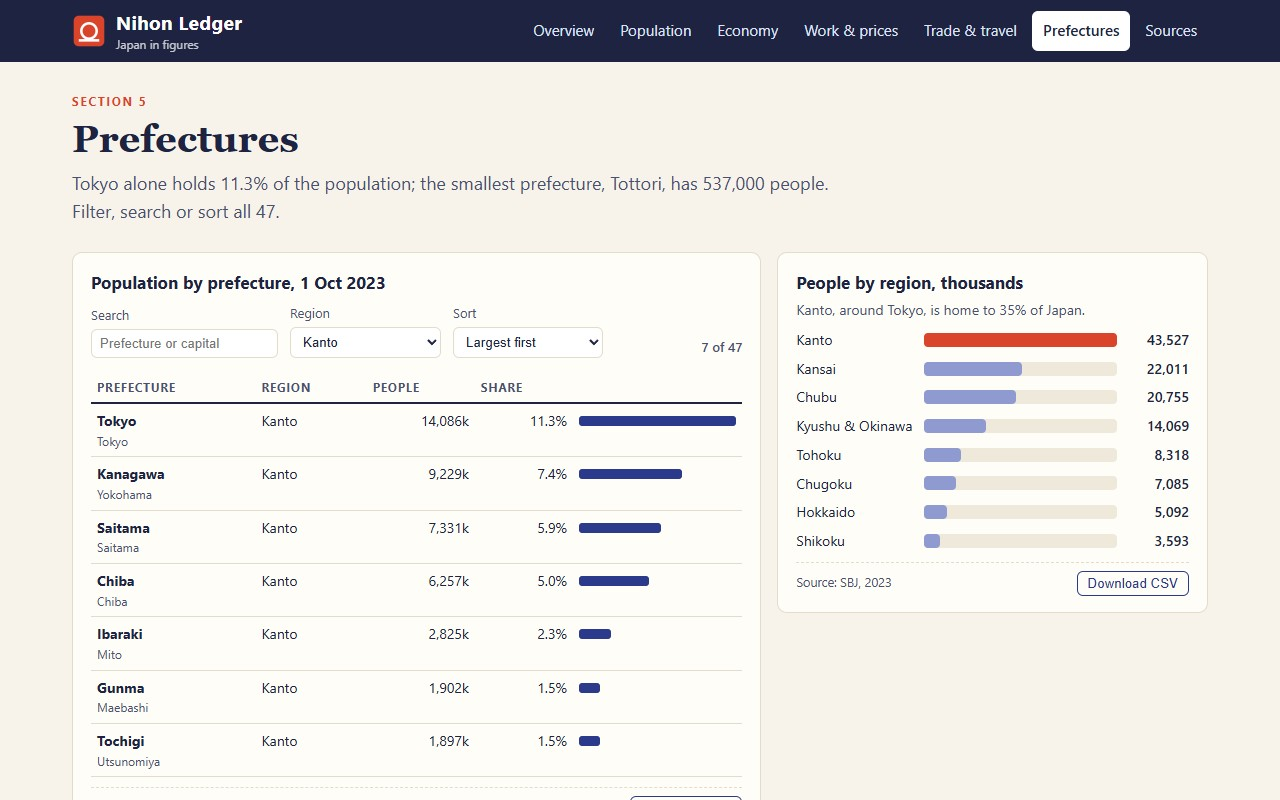
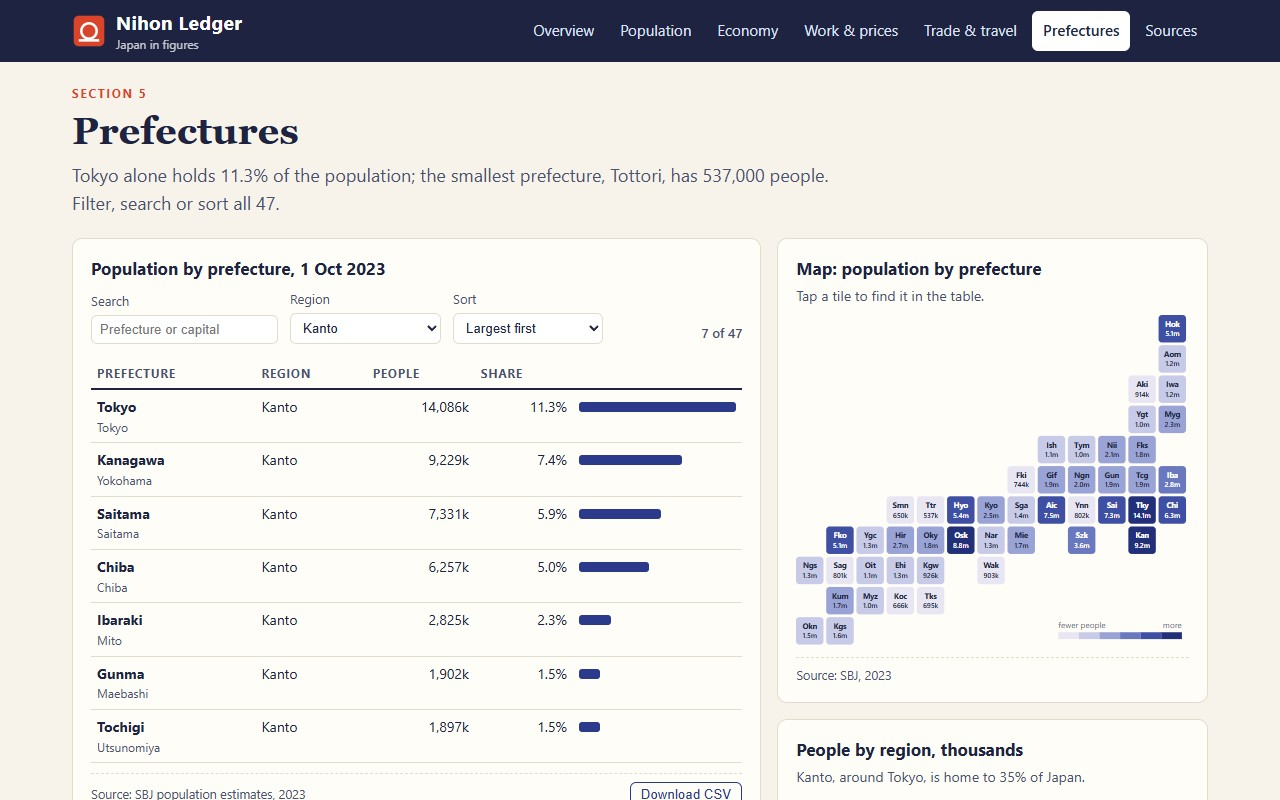
Prefecture tile map on the overview and prefectures pages: tap a tile to filter the table; releases card

diff --git a/app/js/charts/tile-map.js b/app/js/charts/tile-map.js
@@ -1,0 +1,57 @@
+// Tile map of Japan: one square per prefecture, laid out roughly where it sits,
+// shaded by population on a log scale. Tiles carry data-pref so a click can filter the table.
+
+const TILES = {
+  Hokkaido: [12, 0], Aomori: [12, 1], Akita: [11, 2], Iwate: [12, 2], Yamagata: [11, 3], Miyagi: [12, 3],
+  Ishikawa: [8, 4], Toyama: [9, 4], Niigata: [10, 4], Fukushima: [11, 4],
+  Fukui: [7, 5], Gifu: [8, 5], Nagano: [9, 5], Gunma: [10, 5], Tochigi: [11, 5], Ibaraki: [12, 5],
+  Shimane: [3, 6], Tottori: [4, 6], Hyogo: [5, 6], Kyoto: [6, 6], Shiga: [7, 6], Aichi: [8, 6], Yamanashi: [9, 6], Saitama: [10, 6], Tokyo: [11, 6], Chiba: [12, 6],
+  Fukuoka: [1, 7], Yamaguchi: [2, 7], Hiroshima: [3, 7], Okayama: [4, 7], Osaka: [5, 7], Nara: [6, 7], Mie: [7, 7], Shizuoka: [9, 7], Kanagawa: [11, 7],
+  Nagasaki: [0, 8], Saga: [1, 8], Oita: [2, 8], Ehime: [3, 8], Kagawa: [4, 8], Wakayama: [6, 8],
+  Kumamoto: [1, 9], Miyazaki: [2, 9], Kochi: [3, 9], Tokushima: [4, 9],
+  Okinawa: [0, 10], Kagoshima: [1, 10],
+};
+
+// Short labels that keep look-alike names apart (three Yama-, three Fuku-, two Miya-…).
+const ABBR = {
+  Fukushima: 'Fks', Fukui: 'Fki', Fukuoka: 'Fko', Yamagata: 'Ygt', Yamanashi: 'Ynn', Yamaguchi: 'Ygc',
+  Shimane: 'Smn', Shiga: 'Sga', Shizuoka: 'Szk', Saga: 'Sag', Nagasaki: 'Ngs', Nagano: 'Ngn',
+  Miyagi: 'Myg', Miyazaki: 'Myz', Kagawa: 'Kgw', Kagoshima: 'Kgs', Tokyo: 'Tky', Tokushima: 'Tks',
+  Tochigi: 'Tcg', Toyama: 'Tym', Tottori: 'Ttr', Okayama: 'Oky', Okinawa: 'Okn', Osaka: 'Osk',
+};
+
+const STEPS =['#e9e6f3', '#c7cbe8', '#9aa3d6', '#6a78c0', '#3f4fa3', '#22307a'];
+
+function shade(pop, min, max) {
+  const t = (Math.log(pop) - Math.log(min)) / (Math.log(max) - Math.log(min));
+  return STEPS[Math.min(STEPS.length - 1, Math.floor(t * STEPS.length))];
+}
+
+export function tileMap({ prefectures, selected = '', label = 'Map of prefectures' }) {
+  const size = 40;
+  const gap = 4;
+  const pops = prefectures.map((p) => p.pop);
+  const min = Math.min(...pops);
+  const max = Math.max(...pops);
+  const tiles = prefectures
+    .map((p) => {
+      const [c, r] = TILES[p.name];
+      const x = c * (size + gap);
+      const y = r * (size + gap);
+      const fill = shade(p.pop, min, max);
+      const dark = STEPS.indexOf(fill) >= 3;
+      return `<g class="tile${p.name === selected ? ' sel' : ''}" data-pref="${p.name}" tabindex="0" role="button" aria-label="${p.name}">
+        <rect x="${x}" y="${y}" width="${size}" height="${size}" rx="5" fill="${fill}"/>
+        <text x="${x + size / 2}" y="${y + 17}" class="${dark ? 'on-dark' : ''}">${ABBR[p.name] ?? p.name.slice(0, 3)}</text>
+        <text x="${x + size / 2}" y="${y + 31}" class="n ${dark ? 'on-dark' : ''}">${p.pop >= 1000 ? (p.pop / 1000).toFixed(1) + 'm' : p.pop + 'k'}</text>
+        <title>${p.name}: ${p.pop.toLocaleString('en-GB')} thousand</title></g>`;
+    })
+    .join('');
+  const w = 13 * (size + gap);
+  const h = 11 * (size + gap);
+  const legend = STEPS.map((c, i) => `<rect x="${i * 30}" y="${h - 22}" width="30" height="10" fill="${c}"/>`).join('');
+  return `<svg class="chart tilemap" viewBox="0 0 ${w} ${h}" role="img" aria-label="${label}">
+    ${tiles}
+    <g transform="translate(${w - 190},0)">${legend}<text class="axis" x="0" y="${h - 28}">fewer people</text><text class="axis" x="180" y="${h - 28}" text-anchor="end">more</text></g>
+  </svg>`;
+}

diff --git a/app/js/pages/overview.js b/app/js/pages/overview.js
@@ -6,6 +6,8 @@ import { POPULATION_MILLIONS, BIRTHS_THOUSANDS, FERTILITY_RATE, AGE_SHARES_2023 
 import { REAL_GDP_GROWTH, UNEMPLOYMENT_RATE, CPI_INFLATION } from '../data/economy.js';
 import { VISITORS_MILLIONS } from '../data/trade-travel.js';
 import { change, num } from '../format.js';
+import { tileMap } from '../charts/tile-map.js';
+import { PREFECTURES } from '../data/prefectures.js';
 
 const last = (s) => s[s.length - 1];
 
@@ -34,6 +36,15 @@ export function renderOverview() {
   </section>
   <div class="grid two">
     ${figure({
+      id: 'ov-map',
+      title: 'Where people live, 47 prefectures',
+      takeaway: 'Darker means more people. Tap a prefecture to open it in the table.',
+      chart: tileMap({ prefectures: PREFECTURES, label: 'Population by prefecture' }),
+      source: 'sbj',
+      year: 2023,
+      csv: { header: ['prefecture', 'population_thousands'], rows: PREFECTURES.map((p) => [p.name, p.pop]) },
+    })}
+    ${figure({
       id: 'ov-pop',
       title: 'Population, 2000 to 2024',
       takeaway: 'Peaked at 128.08 million in 2008; 4.3 million fewer people since.',
@@ -42,6 +53,8 @@ export function renderOverview() {
       year: 2024,
       csv: { header: ['year', 'population_millions'], rows: POPULATION_MILLIONS },
     })}
+  </div>
+  <div class="grid two">
     <aside class="card guide">
       <h3>Find your figure</h3>
       <ul>
@@ -53,6 +66,16 @@ export function renderOverview() {
         <li><a href="#/sources">Who publishes each number, and how</a></li>
       </ul>
       <p class="small">Every chart has a CSV download with the exact numbers shown.</p>
+    </aside>
+    <aside class="card guide">
+      <h3>Latest releases used</h3>
+      <ul>
+        <li>Population estimates, 1 October 2024 · SBJ</li>
+        <li>Vital statistics, 2024 preliminary · MHLW</li>
+        <li>National accounts, calendar 2024 · Cabinet Office</li>
+        <li>Labour Force Survey and CPI, 2024 averages · SBJ</li>
+        <li>Trade statistics 2024 · MOF; visitor arrivals 2024 · JNTO</li>
+      </ul>
     </aside>
   </div>`;
 }

diff --git a/app/js/pages/prefectures.js b/app/js/pages/prefectures.js
@@ -2,6 +2,7 @@
 
 import { figure } from '../ui/figure.js';
 import { rankBars } from '../charts/bar-charts.js';
+import { tileMap } from '../charts/tile-map.js';
 import { PREFECTURES, REGIONS, regionTotals } from '../data/prefectures.js';
 import { num, escapeHtml } from '../format.js';
 
@@ -52,6 +53,15 @@ export function renderPrefectures(state) {
       <tbody id="pref-rows">${prefectureRows(state)}</tbody></table></div>
       <figcaption><span class="src">Source: SBJ population estimates, 2023</span><button class="ghost" data-csv="prefs">Download CSV</button></figcaption>
     </figure>
+    <div class="stack">
+    ${figure({
+      id: 'pref-map',
+      title: 'Map: population by prefecture',
+      takeaway: state.prefQuery ? `Showing ${escapeHtml(state.prefQuery)} in the table. Tap another tile to switch.` : 'Tap a tile to find it in the table.',
+      chart: tileMap({ prefectures: PREFECTURES, selected: PREFECTURES.find((p) => p.name.toLowerCase() === state.prefQuery.trim().toLowerCase())?.name, label: 'Prefecture map' }),
+      source: 'sbj',
+      year: 2023,
+    })}
     ${figure({
       id: 'regions',
       title: 'People by region, thousands',
@@ -61,6 +71,7 @@ export function renderPrefectures(state) {
       year: 2023,
       csv: { header: ['region', 'population_thousands'], rows: regions.map((r) => [r.label, r.value]) },
     })}
+    </div>
   </div>`;
 }
 

diff --git a/app/css/charts.css b/app/css/charts.css
@@ -17,6 +17,13 @@
 .legend i.exp { background: #2c3a8c; margin-left: 0; }
 .legend i.imp { background: #e08a6f; }
 
+.tilemap .tile { cursor: pointer; }
+.tilemap .tile text { font-size: 11px; font-weight: 700; fill: #1d2340; text-anchor: middle; pointer-events: none; }
+.tilemap .tile text.n { font-size: 10px; font-weight: 500; }
+.tilemap .tile text.on-dark { fill: #fff; }
+.tilemap .tile:hover rect, .tilemap .tile:focus rect { stroke: #c9962b; stroke-width: 2.5; }
+.tilemap .tile.sel rect { stroke: #d9442b; stroke-width: 3.5; }
+
 .rank { list-style: none; margin: 6px 0 0; padding: 0; }
 .rank li { display: grid; grid-template-columns: 120px 1fr 64px; align-items: center; gap: 8px; margin: 7px 0; font-size: 14px; }
 .rank .track { background: #efe9dc; border-radius: 4px; height: 14px; }

diff --git a/app/css/site.css b/app/css/site.css
@@ -33,7 +33,9 @@ a { color: var(--indigo); }
 .nav a.on { background: #fff; color: var(--ink); font-weight: 600; }
 .menu-btn { display: none; margin-left: auto; background: transparent; color: #fff; border: 1px solid rgba(255,255,255,0.5); border-radius: 6px; padding: 7px 12px; font: inherit; }
 
-.hero, .page-head { padding: 30px 0 10px; }
+.hero, .page-head { padding: 22px 0 4px; }
+.hero h1 { font-size: 34px; }
+.stack { display: grid; gap: 16px; }
 .kicker { text-transform: uppercase; letter-spacing: 0.14em; font-size: 12px; color: var(--vermilion); font-weight: 700; margin: 0 0 6px; }
 h1 { font-size: 38px; line-height: 1.15; margin: 0 0 10px; font-family: Georgia, "Times New Roman", serif; }
 .lede { font-size: 18px; max-width: 760px; color: var(--ink-2); margin: 0 0 16px; }

diff --git a/app/js/main.js b/app/js/main.js
@@ -69,6 +69,14 @@ view.addEventListener('click', (e) => {
     render(true);
     return;
   }
+  const tile = e.target.closest('[data-pref]');
+  if (tile) {
+    state.prefQuery = tile.dataset.pref;
+    state.prefRegion = 'all';
+    if (currentPath() === 'prefectures') render(true);
+    else location.hash = '#/prefectures';
+    return;
+  }
   const csv = e.target.closest('[data-csv]');
   if (csv) {
     const id = csv.dataset.csv;
